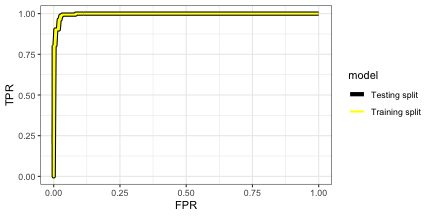
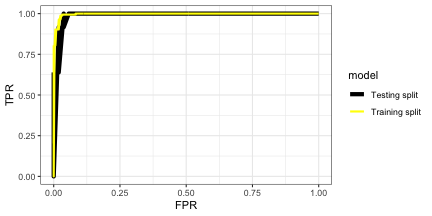
womp slide typo

Changed region(s): [[0.1204, 0.0278, 0.1806, 0.6389]]

diff --git a/slides/slides_logistic2.html b/slides/slides_logistic2.html
@@ -381,8 +381,8 @@ test_roc$auc
 train_data &lt;- tibble(FPR = 1 - train_roc$specificities,
                      TPR = train_roc$sensitivities, 
                      model = "Training split")
-test_data &lt;- tibble(FPR = 1 - train_roc$specificities,
-                     TPR = train_roc$sensitivities, 
+test_data &lt;- tibble(FPR = 1 - test_roc$specificities, 
+                     TPR = test_roc$sensitivities, 
                      model = "Testing split")
 
 # Fiddled with size, color since lines are totally overlapping
